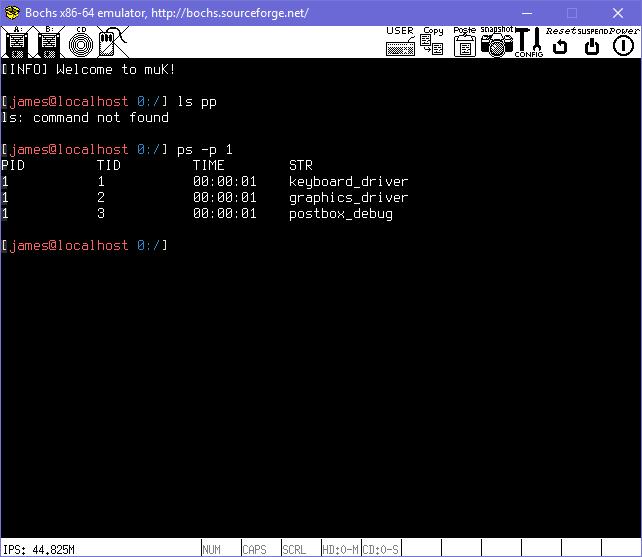
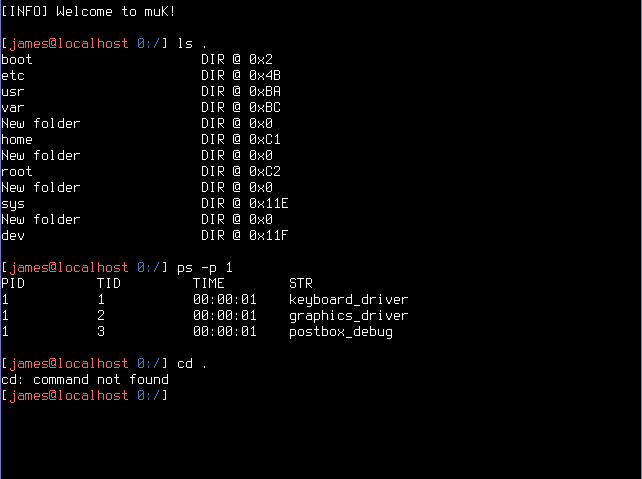
FAT16 + "ls" working implementation

diff --git a/kernel/fs/fat16.cpp b/kernel/fs/fat16.cpp
@@ -66,74 +66,74 @@ std::vector<Filesystem::DirectoryEntry> Filesystem::FAT16::readDirectory(unsigne
 	// Grab the dir table
 	uint8_t* dir_bytes = this->device->read_u8(n_sectors, sectorIndex);
 
-	// size_t index = 0;
-	//	while(index < n_sectors*ATA_BLOCKSIZE) {
-	//	DirectoryEntry* dir_entry = new DirectoryEntry();
+	size_t index = 0;
+	while(index < n_sectors*ATA_BLOCKSIZE) {
+		DirectoryEntry* dir_entry = new DirectoryEntry();
 
-	// 	dir_entry->attributes = static_cast<FATAttributes>(dir_bytes[index+11]);
+		dir_entry->attributes = static_cast<FATAttributes>(dir_bytes[index+11]);
 
-	// 	if(dir_entry->attributes == FATAttributes::shortName || dir_entry->attributes == FATAttributes::shortNameFile) {
-	// 		// Normal short name (8+3) structure
-	// 		char name[11] = {0};
-	// 		int length = 0;
+		if(dir_entry->attributes == FATAttributes::shortName || dir_entry->attributes == FATAttributes::shortNameFile) {
+			// Normal short name (8+3) structure
+			char name[11] = {0};
+			int length = 0;
 
-	// 		bool addSeperator = false; // adds a '.' char into the filename if 0x20 is found (might be bugged if the folder name has a space in it...)
+			bool addSeperator = false; // adds a '.' char into the filename if 0x20 is found (might be bugged if the folder name has a space in it...)
 
-	// 		dir_entry->location = dir_bytes[index+26] | (dir_bytes[index+27] << 8); // 16-bit cluster location
+			dir_entry->location = dir_bytes[index+26] | (dir_bytes[index+27] << 8); // 16-bit cluster location
 
-	// 		// the first 11 bytes store the full short foldername. Let us extract it out...
-	// 		for(size_t offset = 0; offset <= 11; offset++) {
-	// 			char dirChar = dir_bytes[index+offset];
+			// the first 11 bytes store the full short foldername. Let us extract it out...
+			for(size_t offset = 0; offset <= 11; offset++) {
+				char dirChar = dir_bytes[index+offset];
 
-	// 			if(dirChar != 0x20 && dirChar != 0x10) { // 0x20 and 0x10 are padding or "file+ext" seperator byte
-	// 				if(addSeperator) {
-	// 					dir_entry->name[length] = '.';
-	// 					length++;
+				if(dirChar != 0x20 && dirChar != 0x10) { // 0x20 and 0x10 are padding or "file+ext" seperator byte
+					if(addSeperator) {
+						dir_entry->name[length] = '.';
+						length++;
 
-	// 					addSeperator = false;
-	// 				}
+						addSeperator = false;
+					}
 
-	// 				dir_entry->name[length] = tolower(dirChar);
+					dir_entry->name[length] = tolower(dirChar);
 
-	// 				length++;
-	// 			} 
-	// 			else {
-	// 				addSeperator = true;
-	// 			}
-	// 		}
+					length++;
+				} 
+				else {
+					addSeperator = true;
+				}
+			}
 
-	// 		dir_entry->name[length] = '\0';
-	// 	} 
-	// 	else if(dir_entry->attributes == FATAttributes::longName) {
-	// 		// We have found a LONG FOLDERNAME
-	// 		char name[32];
-	// 		int length = 0;
+			dir_entry->name[length] = '\0';
+		} 
+		else if(dir_entry->attributes == FATAttributes::longName) {
+			// We have found a LONG FOLDERNAME
+			char name[32];
+			int length = 0;
 
-	// 		// Our foldername is embedded inside 32-bytes. We have to extract it out the long way
-	// 		for(size_t j = 0; j <= 32; j++) {
-	// 			// our bitmask contains a series of 0 and 1s which allow us to extract the name correctly
-	// 			if(bitMask.test(31-j) && dir_bytes[index+j] != 0xFF && dir_bytes[index+j] != 0x00) {
-	// 				dir_entry->name[length] = dir_bytes[index+j];
-	// 				length++;
-	// 			}
-	// 		}
+			// Our foldername is embedded inside 32-bytes. We have to extract it out the long way
+			for(size_t j = 0; j <= 32; j++) {
+				// our bitmask contains a series of 0 and 1s which allow us to extract the name correctly
+				if(bitMask.test(31-j) && dir_bytes[index+j] != 0xFF && dir_bytes[index+j] != 0x00) {
+					dir_entry->name[length] = dir_bytes[index+j];
+					length++;
+				}
+			}
 
-	// 		dir_entry->name[length] = '\0';
+			dir_entry->name[length] = '\0';
 			
-	// 		// now we grab some details which are located in the short-name entry...
-	// 		index += 32; 
+			// now we grab some details which are located in the short-name entry...
+			index += 32; 
 
-	// 		dir_entry->attributes = static_cast<FATAttributes>(dir_bytes[index+11]);
-	// 	}
-	// 	else if(dir_entry->attributes == FATAttributes::noEntry) {
-	// 		// there isn't a file here, so just skip to the next index entry
-	// 		index += 32;
-	// 		continue;
-	// 	}
+			dir_entry->attributes = static_cast<FATAttributes>(dir_bytes[index+11]);
+		}
+		else if(dir_entry->attributes == FATAttributes::noEntry) {
+			// there isn't a file here, so just skip to the next index entry
+			index += 32;
+			continue;
+		}
 
-	// 	dir.push_back(*dir_entry);
-	// 	index += 32;
-	// }
+		dir.push_back(*dir_entry);
+		index += 32;
+	}
 
 	return dir;
 }

diff --git a/kernel/drivers/ata.cpp b/kernel/drivers/ata.cpp
@@ -51,24 +51,9 @@ uint16_t* ATA::readPIO(int size) {
 	
 	for(int i = 0; i < size/2; i++) {
 		buffer[i] = inports(device_offsets[bus][drive] + ATA_DATA);
-
-		//sleep(1);
-		//bcprintf("buffer[%d]=%x\n", i, buffer[i]);
-		//MAGIC_BREAK;
 	}
 
-	// if((int)(buffer[27] >> 8) != 0)
- 	// 	terminal_printf("[ATA] Device (%d,%d): ", bus, drive);
-
-	// for(int i = 27; i < 47; i++) {
-	// 	// uint16_t is actually TWO char's long!
-	// 	terminal_printf("%c", (int)(buffer[i] >> 8));
-	// 	terminal_printf("%c", (int)(buffer[i] & 0xFF));
-	// }
-
 	Scheduler::unlock();
-
-	MAGIC_BREAK;
 
 	return buffer;
 }
@@ -194,7 +179,7 @@ uint8_t* ATA::read_u8(size_t num_blocks, int offset) {
 		}
 
 		// Splits u16_t into 2*u8_t
-		for(int i = 0; i < ATA_BLOCKSIZE; i++) {
+		for(int i = 0; i < ATA_BLOCKSIZE / 2; i++) {
 			buffer[i*2] = (int)(buffer_short[i]);
 			buffer[i*2 + 1] = (int)((buffer_short[i] >> 8) & 0xFF);
 		}

diff --git a/kernel/bin/ls.cpp b/kernel/bin/ls.cpp
@@ -19,7 +19,7 @@ int ls(std::vector<std::string> args) {
 		currentPath += '/';
 	}
 
-	for(auto dir : Filesystem::devices[0]->readDirectory(currentPath)) {
+	for(auto dir : Filesystem::devices[0]->readDirectory(512)) {
 		char* fileType = new char[5];
 
 		if(dir.attributes == Filesystem::FATAttributes::shortNameFile) {

diff --git a/include/kernel/fs/fat16.hpp b/include/kernel/fs/fat16.hpp
@@ -53,7 +53,7 @@ namespace Filesystem {
 			} 
 			else {
 				bcprintf("[FAT16] Verified FAT header.\n");
-				//terminal_writestring("[FAT16] Verified FAT header.\n");
+				
 				this->getFAT();
 			}
 		}
